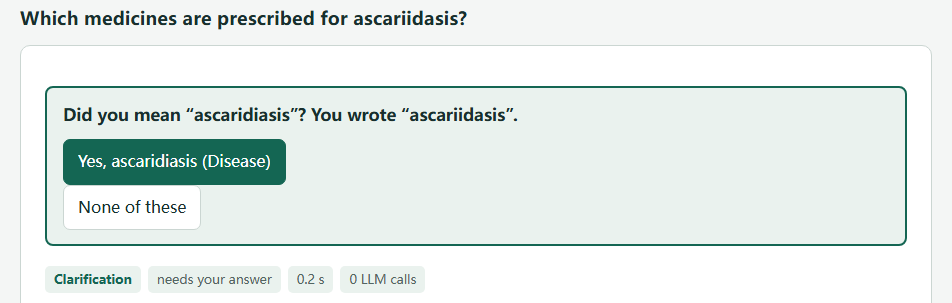
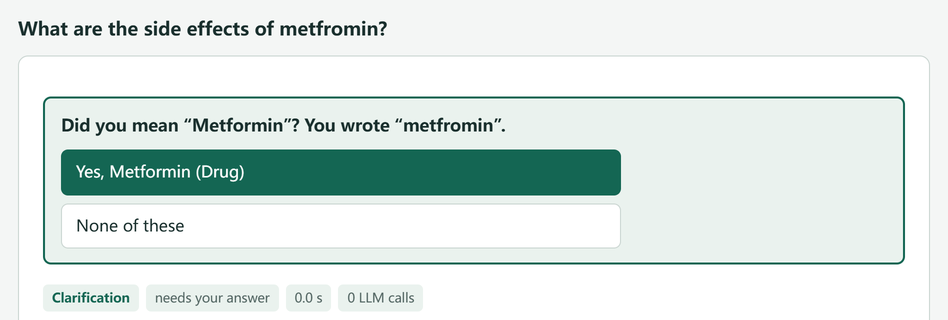
fix(web): keep filled buttons readable on hover; retake README screenshots
The plain button hover background also applied to the filled "Yes, ..." and Ask
buttons, leaving white text on a light background. Filled buttons now keep their
colours and brighten instead. The README screenshots show the stacked options (D122).

diff --git a/src/medkg/api/static/index.html b/src/medkg/api/static/index.html
@@ -127,6 +127,10 @@
     .confirm .choices button { text-align: left; }
     .confirm .choices + .choices { margin-top: 8px; }
     .confirm .choose { background: var(--accent); color: var(--accent-text); border-color: var(--accent); }
+    /* Filled buttons keep their colours on hover; the plain hover background hid their text. */
+    #ask:hover:not(:disabled), .confirm .choose:hover:not(:disabled) {
+      background: var(--accent); color: var(--accent-text); filter: brightness(1.15);
+    }
     .confirm.other { border-width: 1px; border-color: var(--border); background: transparent; }
     .confirm.other p { font-size: 0.95rem; font-weight: 600; color: var(--muted); }
     .confirm p:last-child { margin-bottom: 0; }

diff --git a/README.md b/README.md
@@ -15,7 +15,7 @@ the evidence rows; here a disease–drug–drug chain answered by the LLM planne
 Unclear wording and misspelt names are confirmed rather than guessed: the guess is
 shown with the other readings one click away, and a corrected name is asked back.
 
-<p><img src="docs/images/intent.png" alt="An unclear question answered as the likeliest reading, with the other questions offered as buttons" width="49%"> <img src="docs/images/confirm.png" alt="A misspelt disease name asked back with a confirmation button" width="49%"></p>
+<p><img src="docs/images/intent.png" alt="An unclear question answered as the likeliest reading, with the other questions offered as buttons" width="49%"> <img src="docs/images/confirm.png" alt="A misspelt drug name asked back, with the confirmation and None of these stacked" width="49%"></p>
 
 ## What it does
 
